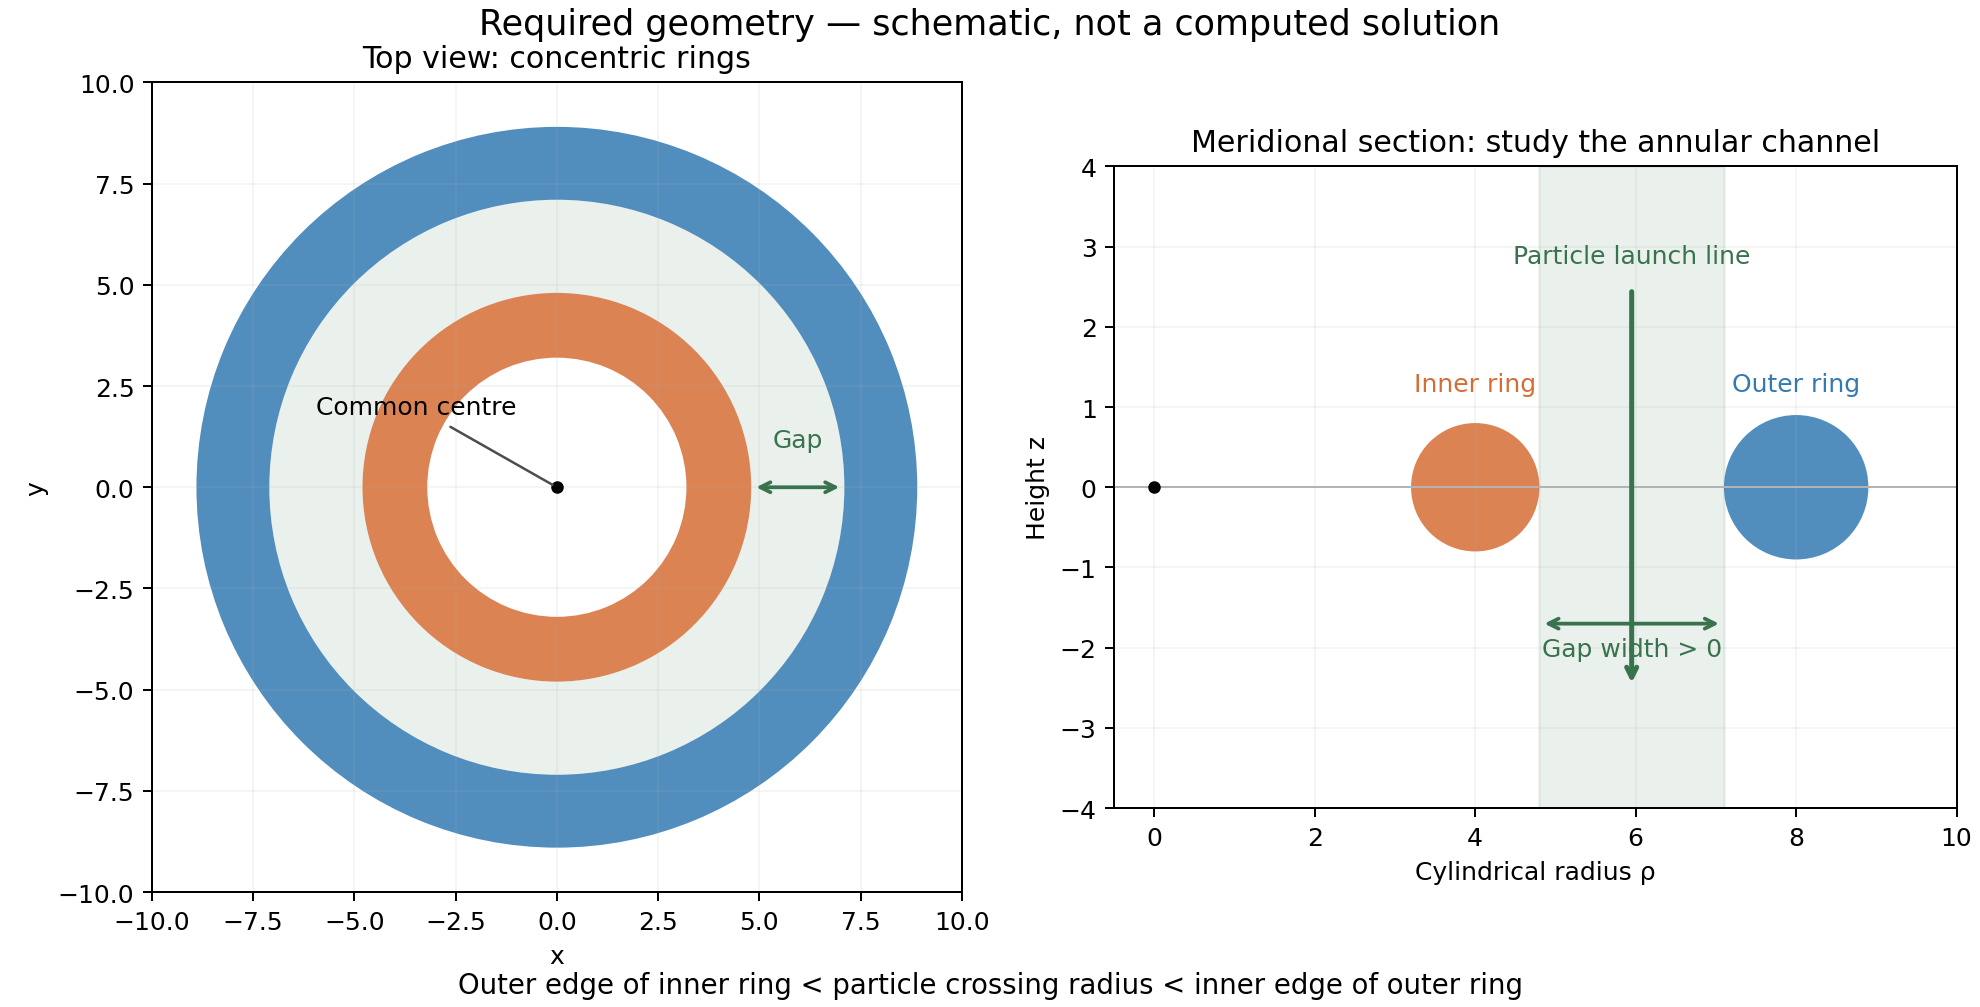
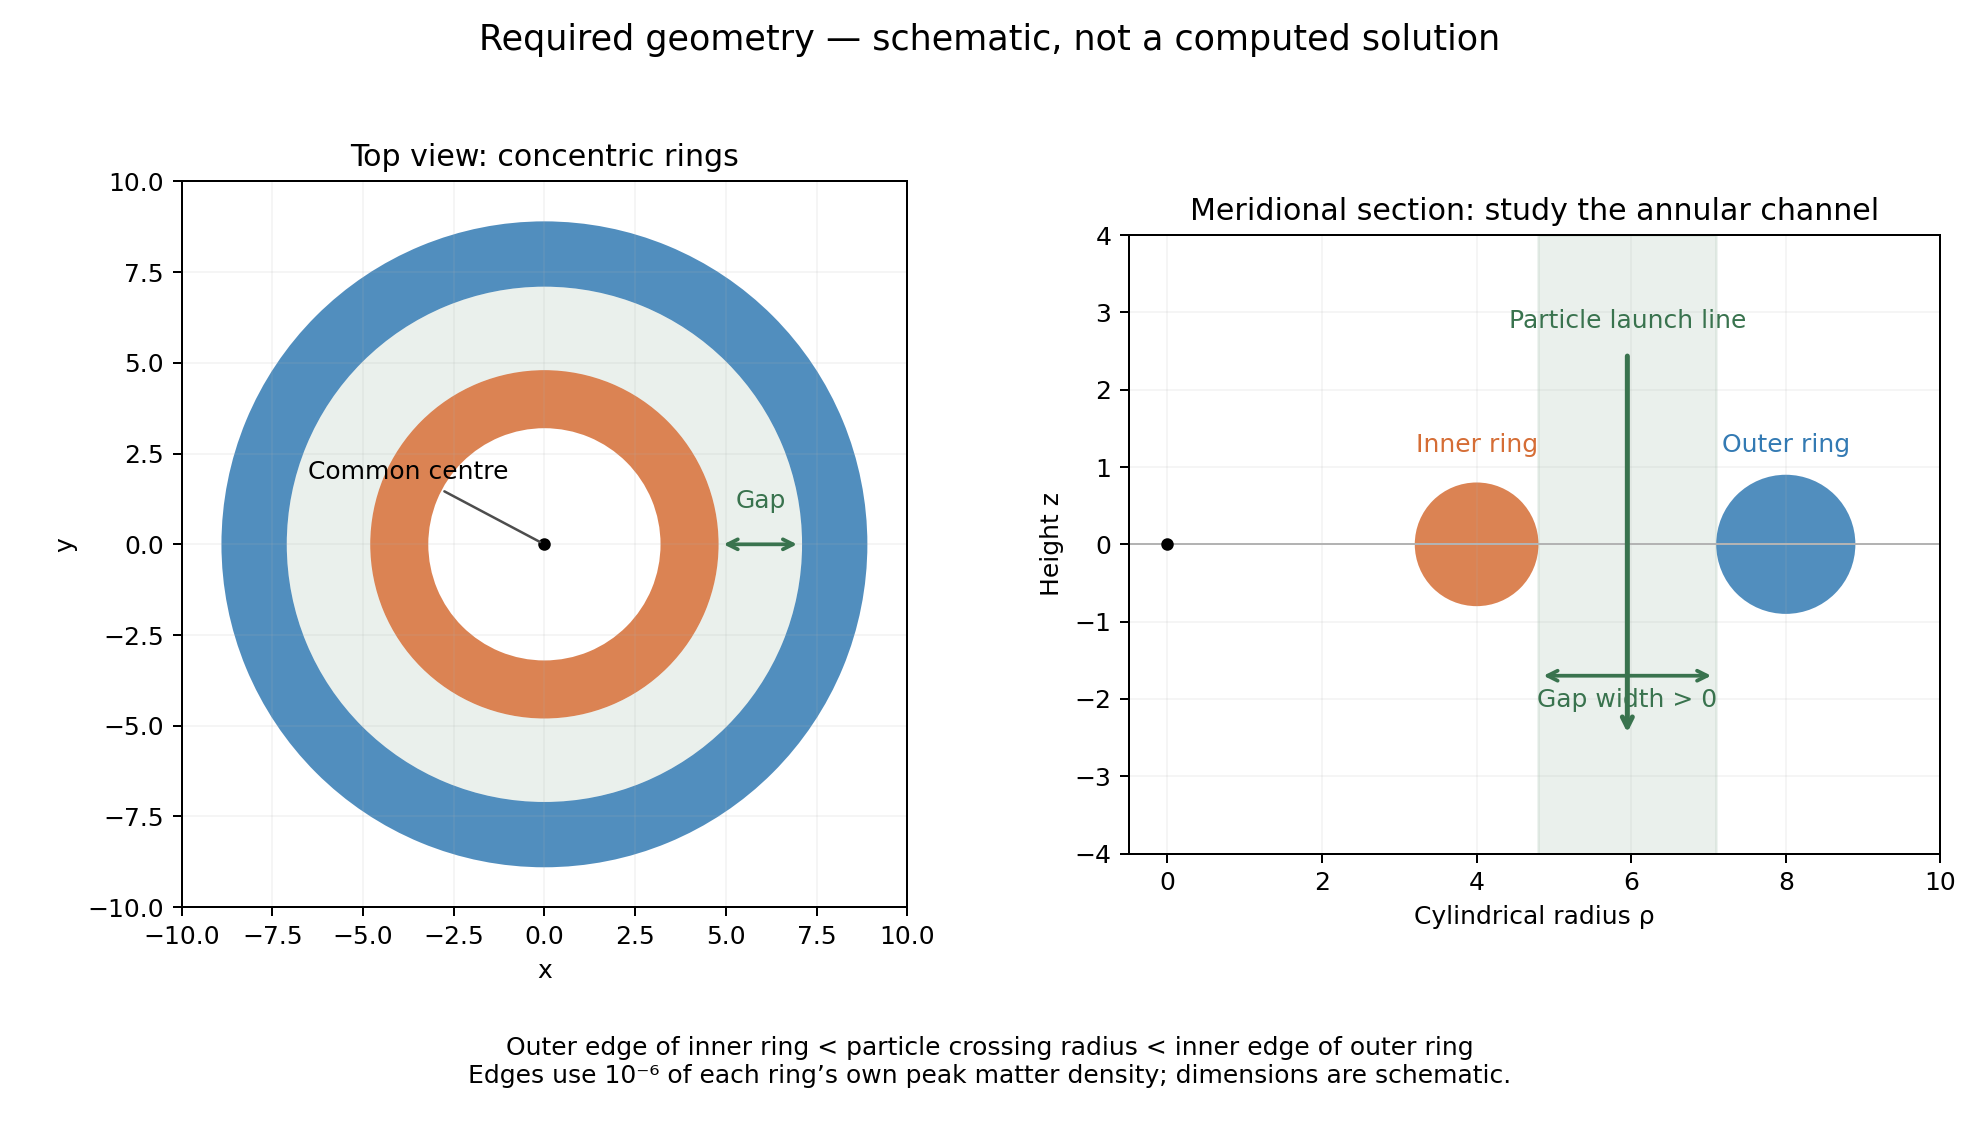
Launch the approved concentric annular-gap seed screen

diff --git a/grteclyn-wrapper/src/grteclyn_wrapper/visualisation/optimisation/plot_ring_gap_target.py b/grteclyn-wrapper/src/grteclyn_wrapper/visualisation/optimisation/plot_ring_gap_target.py
@@ -14,7 +14,8 @@ def main():
     R1,a1,R2,a2=4.,.8,8.,.9
     left,right=R1+a1,R2-a2;launch=(left+right)/2
     orange,blue,green='#d56d35','#337ab3','#39734e'
-    fig,axes=plt.subplots(1,2,figsize=(11,5.6),layout='constrained')
+    fig,axes=plt.subplots(1,2,figsize=(11,6.3))
+    fig.subplots_adjust(left=.07,right=.98,bottom=.2,top=.84,wspace=.22)
     ax=axes[0]
     ax.add_patch(Wedge((0,0),R1+a1,0,360,width=2*a1,facecolor=orange,alpha=.85))
     ax.add_patch(Wedge((0,0),R2+a2,0,360,width=2*a2,facecolor=blue,alpha=.85))
@@ -38,8 +39,10 @@ def main():
     ax.set(xlabel='Cylindrical radius ρ',ylabel='Height z',xlim=(-.5,10),ylim=(-4,4),
            aspect='equal',title='Meridional section: study the annular channel')
     for ax in axes:ax.grid(alpha=.12)
-    fig.suptitle('Required geometry — schematic, not a computed solution',fontsize=14)
-    fig.supxlabel('Outer edge of inner ring < particle crossing radius < inner edge of outer ring',fontsize=11)
+    fig.suptitle('Required geometry — schematic, not a computed solution',fontsize=14,y=.98)
+    fig.text(.5,.045,'Outer edge of inner ring < particle crossing radius < inner edge of outer ring\n'
+             'Edges use 10⁻⁶ of each ring’s own peak matter density; dimensions are schematic.',
+             fontsize=10,ha='center')
     args.out.parent.mkdir(parents=True,exist_ok=True);fig.savefig(args.out,dpi=180);plt.close(fig)
 
 

diff --git a/research/railgun/STATUS.md b/research/railgun/STATUS.md
@@ -25,16 +25,19 @@ near 5.89 and 7.77 do not create a gap. The target schematic is
 
 ## Live and queue
 
-**Live:** none. `railgun-gap-regression-20261101`, second node/card 0, code
-`1d3f5a02`, ended **13:18:48 MSK**: eight passed, one fixture failed in
-2.67 s. Explicit GPU cuSOLVER agrees with the host bound-mode reference;
-saved Cartesian/spectral density comparison passed. The overlap fixture
-expected a resolved inner edge even though its domain boundary exceeded
-the cutoff; the checker correctly returned an unresolved edge. Move both
-synthetic peaks inward from the domain boundaries and rerun that same suite.
-Four threads, 160 GiB, 0.5 h cap, no AMR checkpoints.
+**Live:** `railgun-annular-gap-screen-20261101`, second node/card 0,
+code `928bde26`, after the explicit go for k2=-4/-8/-12/-16,
+96x12 / 128x16, radial scale 50, at most eight GPU eigenproblems.
+Four threads, 160 GiB, 0.5 h cap, no AMR checkpoints; retain logs/seeds.
+Initial compilation/eigensolve; speed and ETA unmeasured.
 Scratch clean: 47 MB in `_cache/` only, 542 GB free; first node not listed.
-The higher-winding physical seed screen remains unlaunched, awaiting go.
+
+All **nine gap/GPU eigenmode regression checks passed in 2.58 s**, ending
+**13:21:02 MSK**, code `928bde26`. The first run had eight passes and one
+incorrect fixture expectation about an unresolved boundary crossing; the
+fixture was corrected, and the gap criterion stayed unchanged. Both logs
+are retained. GPU cuSOLVER agrees with the host reference; spectral matter
+density agrees with the independent archived Cartesian-derivative profile.
 
 Run C `railgun-counter-rotation-20261101`, second node/card 0,
 implementation `73b2aa30`, ran **12:55:48–13:00:33 MSK (0.079 h)**, exit 0.
@@ -81,15 +84,15 @@ the first node was not listed.
 
 **Next:** search for a separated annular channel before running particles
 between rings. Increasing |k2| is a candidate way to move the outer bound
-mode away from the inner ring; success is not assumed. Prepared, **not launched**:
+mode away from the inner ring; success is not assumed. **Authorised and live**:
 `studies/annular_gap_screen.json` tests k2=-4/-8/-12/-16, masses unchanged,
 96x12 / 128x16, radial compactification scale 50, at most eight quadratic
 eigenproblems. The eigensolver explicitly uses GPU cuSOLVER. Four threads,
 160 GiB, 0.5 h, second-node card 0, no AMR checkpoints; retain seeds/logs.
 This fixed-background linear screen cannot accept a self-consistent spacetime;
 any promising seed still needs nonlinear backreaction, zero-J enforcement,
-three-grid validation and finite-height channel checks. Regression tests are
-pending; a fresh go is required for the changed windings/grids before startup.
+three-grid validation and finite-height channel checks. The nine regression
+checks passed before launch; the changed windings/grids received a fresh go.
 Off-axis launch/destination support passed four GPU checks in 4.09 s at
 13:02:40 MSK: `results/railgun/gpu_offaxis_regression.json`.
 No physical between-ring trajectory is authorised or running.
